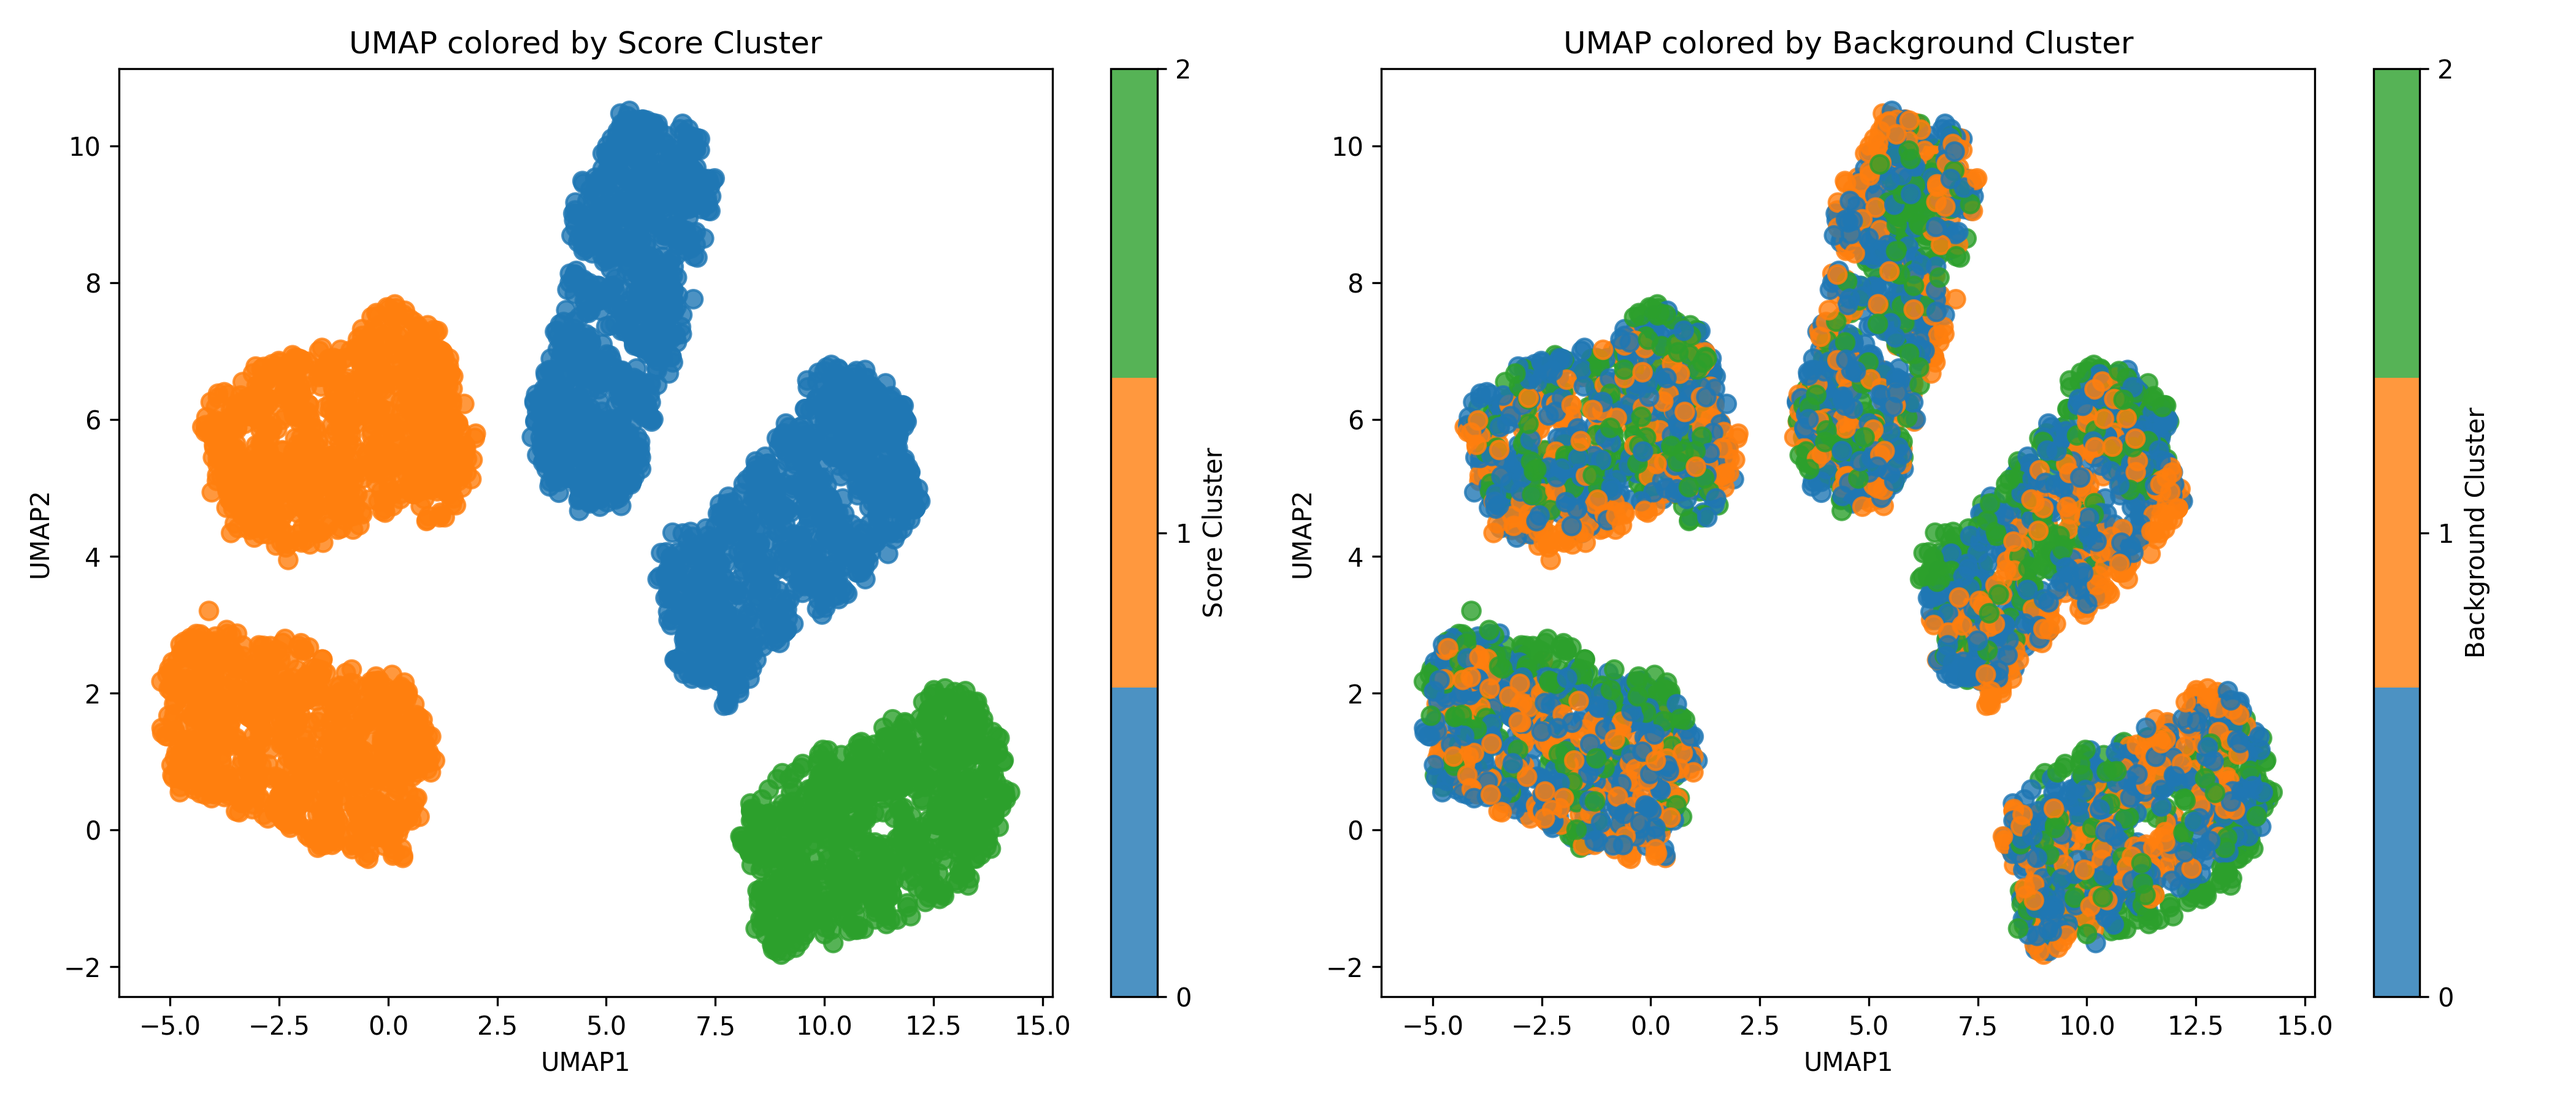
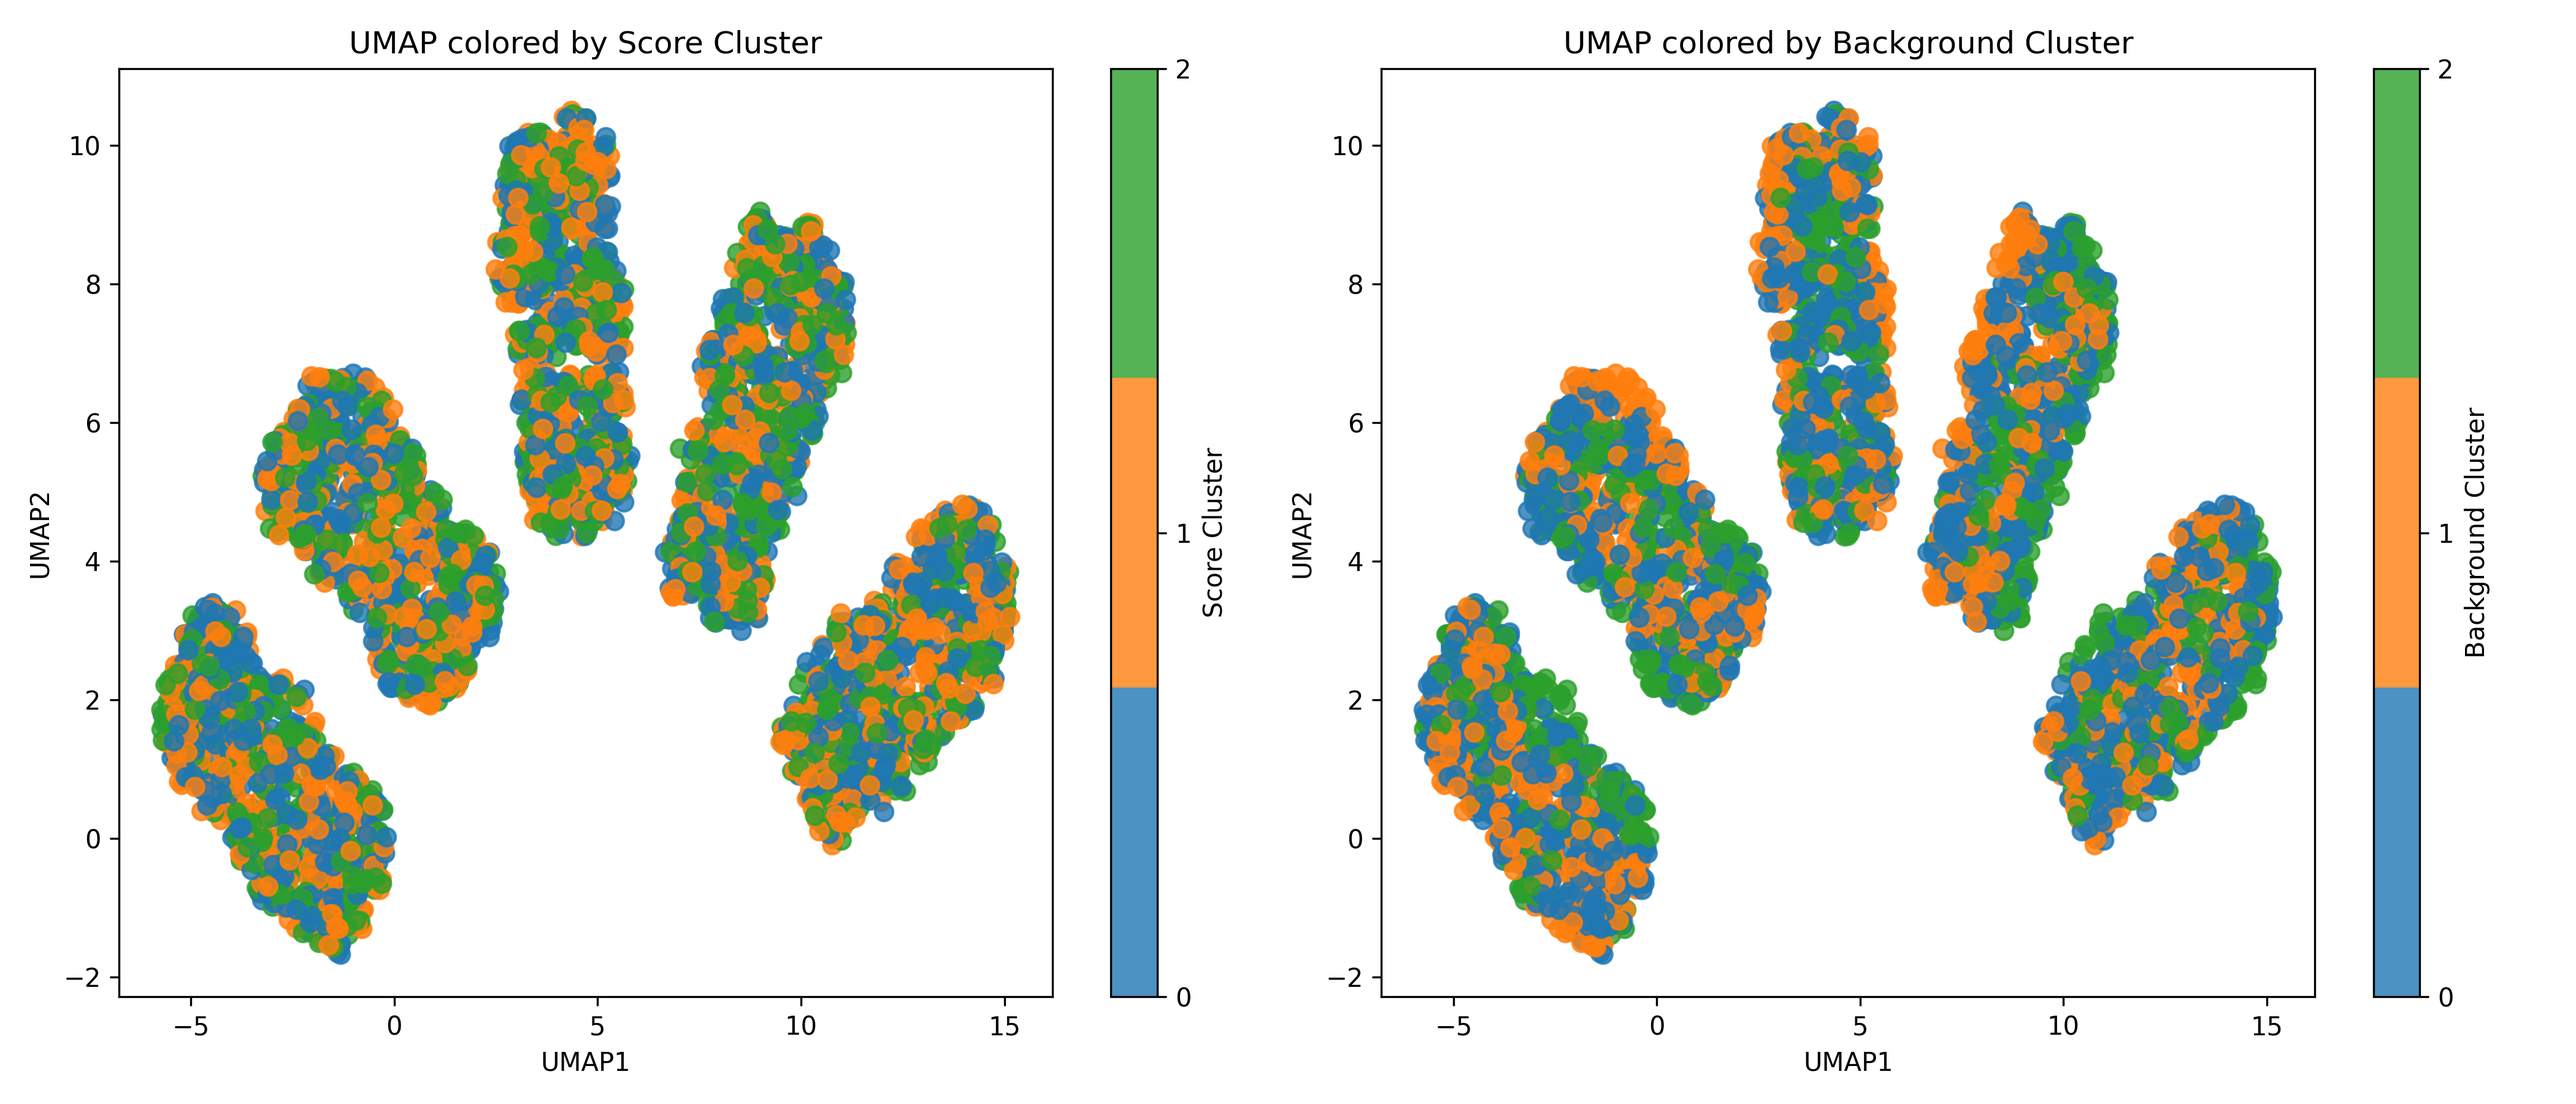
add mode a model@xpk_pc

diff --git a/app/clustering/cluster_analysis2.py b/app/clustering/cluster_analysis2.py
@@ -4,7 +4,7 @@ from pyspark.sql.types import StringType
 def cross_tab(df1, df2, config):
     merged = df1.join(df2, on="student_id", how="inner")
 
-    cross = merged.crosstab("score_cluster", "background_cluster")
+    cross = merged.crosstab("score_cluster", "mental_cluster")
 
     def label_score(score):
         return {
@@ -14,7 +14,7 @@ def cross_tab(df1, df2, config):
         }.get(score, f"Cluster {score}")
 
     label_udf = udf(label_score, StringType())
-    cross = cross.withColumn("Score Cluster", label_udf(col("score_cluster_background_cluster")))
+    cross = cross.withColumn("Score Cluster", label_udf(col("score_cluster_mental_cluster")))
 
     cross = cross.withColumn("sort_key",
         when(col("Score Cluster") == "Low Score", 0)
@@ -22,8 +22,8 @@ def cross_tab(df1, df2, config):
         .when(col("Score Cluster") == "High Score", 2)
     )
 
-    ordered_cols = ["Score Cluster"] + [c for c in cross.columns if c not in ["Score Cluster", "score_cluster_background_cluster", "sort_key"]]
+    ordered_cols = ["Score Cluster"] + [c for c in cross.columns if c not in ["Score Cluster", "score_cluster_mental_cluster", "sort_key"]]
     cross = cross.orderBy("sort_key").select(*ordered_cols)
-    print("background_cluster:")
+    print("mental_cluster:")
     cross.show()
-    cross.write.mode("overwrite").csv("hdfs://hadoop-master:9000/data/processed/cluster_crosstab")
+    cross.write.mode("overwrite").csv("hdfs://hadoop-master:9000/data/processed/cluster_crosstab2")

diff --git a/app/main.py b/app/main.py
@@ -6,7 +6,7 @@ from preprocessing import normalization
 from preprocessing.transform import transformers
 from utils import load_data
 from preprocessing.scoring import background_score, mental_score
-from clustering import background_cluster, score_cluster, cluster_analysis
+from clustering import background_cluster, mental_cluster, score_cluster, cluster_analysis, cluster_analysis2
 from preprocessing.label_mapper import label_mapping
 from utils.column_utils import convert_boolean_to_int
 
@@ -40,12 +40,16 @@ df = score_cluster.run(df, config)
 df1 = df.select(CandidateColumns.student_id, "score_cluster")
 df = background_cluster.run(df, config)
 df2 = df.select(CandidateColumns.student_id, "background_cluster")
-cluster_analysis.cross_tab(df1, df2, config)
+df = mental_cluster.run(df, config)
+df3 = df.select(CandidateColumns.student_id, "mental_cluster")
 
+cluster_analysis.cross_tab(df1, df2, config)
+cluster_analysis2.cross_tab(df1, df3, config)
 # Save processed data
 print("✅ 正在寫入 processed 資料至 HDFS...")
 #df.write.mode("overwrite").parquet(configs['data']['processed'])
 full_output = origin_data.join(df1,on=CandidateColumns.student_id,how="inner")
 full_output = full_output.join(df2,on=CandidateColumns.student_id,how="inner")
+full_output = full_output.join(df3,on=CandidateColumns.student_id,how="inner")
 full_output = label_mapping(full_output)
 full_output.write.mode("overwrite").parquet(config['data']['full'])

diff --git a/app/clustering/mental_cluster.py b/app/clustering/mental_cluster.py
@@ -1,0 +1,26 @@
+from pyspark.ml.clustering import KMeans, KMeansModel
+from pyspark.ml.feature import VectorAssembler
+
+from configs.feature_select import get_columns_for_mental_cluster
+
+
+def run(df, config):
+    input_cols = ["mental_score"] + get_columns_for_mental_cluster()
+    assembler = VectorAssembler(inputCols=input_cols, outputCol="mental_vector")
+    df = assembler.transform(df)
+
+    kmeans = KMeans(k=3, featuresCol="mental_vector", predictionCol="mental_cluster")
+    model = kmeans.fit(df)
+    model.write().overwrite().save(config['model']['mental_cluster'])
+    return model.transform(df)
+
+def predict_with_background_model(df, config):
+    model_path = config['model']['mental_cluster']
+    model = KMeansModel.load(model_path)
+
+    input_cols = ["mental_score"] + get_columns_for_mental_cluster()
+    assembler = VectorAssembler(inputCols=input_cols, outputCol="mental_vector")
+    df = assembler.transform(df)
+
+    df = model.transform(df)
+    return df

diff --git a/app/preprocessing/label_mapper.py b/app/preprocessing/label_mapper.py
@@ -17,15 +17,25 @@ def get_score_cluster_mappings():
         "high_score"
     ]
 
+def get_mental_cluster_mappings():
+    return [
+        "low_stress",
+        "normal_stress",
+        "high_stress"
+    ]
+
 
 def label_mapping(df):
     background_labels = get_background_cluster_mappings()
+    mental_labels = get_background_cluster_mappings()
     score_labels = get_score_cluster_mappings()
 
     background_udf = udf(lambda idx: background_labels[idx], StringType())
+    mental_udf = udf(lambda idx: mental_labels[idx], StringType())
     score_udf = udf(lambda idx: score_labels[idx], StringType())
 
     df = df.withColumn("background_cluster_label", background_udf(df["background_cluster"]))
+    df = df.withColumn("mental_cluster_label", score_udf(df["mental_cluster"]))
     df = df.withColumn("score_cluster_label", score_udf(df["score_cluster"]))
 
     return df

diff --git a/app/configs/feature_select.py b/app/configs/feature_select.py
@@ -83,3 +83,11 @@ def _get_columns_for_background_cluster():
     return [
         CandidateColumns.score_background
     ]
+
+def get_columns_for_mental_cluster():
+    return [col.value for col in _get_columns_for_mental_cluster()]
+    
+def _get_columns_for_mental_cluster():
+    return [
+        CandidateColumns.score_mental
+    ]
